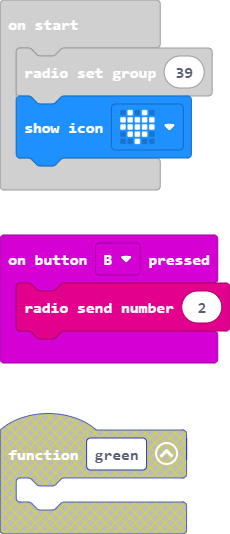
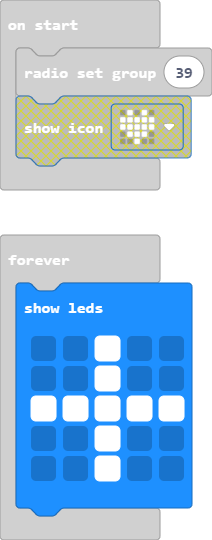
Update main.blocks, main.ts

diff --git a/main.ts b/main.ts
@@ -5,7 +5,12 @@ input.onButtonPressed(Button.B, function () {
     radio.sendNumber(2)
 })
 radio.setGroup(39)
-basic.showIcon(IconNames.Heart)
 basic.forever(function () {
-	
+    basic.showLeds(`
+        . . # . .
+        . . # . .
+        # # # # #
+        . . # . .
+        . . # . .
+        `)
 })
